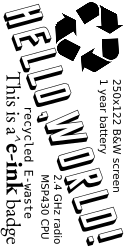
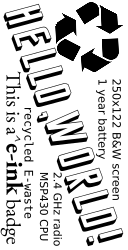
server: use PIL to rotate, resize, and dither png images

Changed region(s): [[0.3125, 0.672, 0.5, 1.0], [0.875, 0.308, 0.9688, 0.812], [0.75, 0.308, 0.8438, 0.644]]

diff --git a/server/server.py b/server/server.py
@@ -2,6 +2,8 @@ import a7106
 import struct
 import time
 import hashlib
+import os
+from PIL import Image, ImageFont, ImageDraw, ImageOps
 from threading import Thread
 from datetime import datetime
 
@@ -77,23 +79,45 @@ class eink_server:
             except Exception as e:
                 print(now(), e)
 
-def monitor_files(server):
-    while True:
-        try:
-            with open("hello.raw", "rb") as f:
-                img = f.read()
-            img_id = int(hashlib.sha256(img).digest()[0:4].hex(), 16)
-            if server.img_id == img_id:
-               time.sleep(1)
-               continue
-            server.image = img
-            server.img_id = img_id
-            print(now(), 'image id %08x' %(server.img_id))
-        except Exception as e:
-            print(now(), e)
+def monitor_files(server, filename):
+	last_mtime = 0
+	while True:
+		try:
+			st = os.stat(filename)
+			if st.st_mtime == last_mtime:
+				time.sleep(1)
+				continue
+			last_mtime = st.st_mtime
+
+			img = Image.open(filename)
+
+			# rotate it clockwise if the wrong orientation
+			if img.width > img.height:
+				img = img.rotate(-90, expand=True)
+
+			# shrink it to fit
+			if img.width != 128 or img.height != 250:
+				img = img.resize((128,250))
+
+			# convert it to 1 channel
+			if img.mode != "1":
+				img = img.convert(mode="1") #, dither=Image.Dither.FLOYDSTEINBERG)
+
+			# convert it to raw bytes
+			img = ImageOps.flip(img).tobytes()
+			img_id = int(hashlib.sha256(img).digest()[0:4].hex(), 16)
+			if server.img_id == img_id:
+				time.sleep(1)
+				continue
+			server.image = img
+			server.img_id = img_id
+			print(now(), 'image id %08x' %(server.img_id))
+		except Exception as e:
+			print(now(), e)
+			time.sleep(5)
 
 server = eink_server()
-fs_thread = Thread(target=monitor_files, args=(server,))
+fs_thread = Thread(target=monitor_files, args=(server,"hello.png"))
 
 fs_thread.start()
 server.serve()
